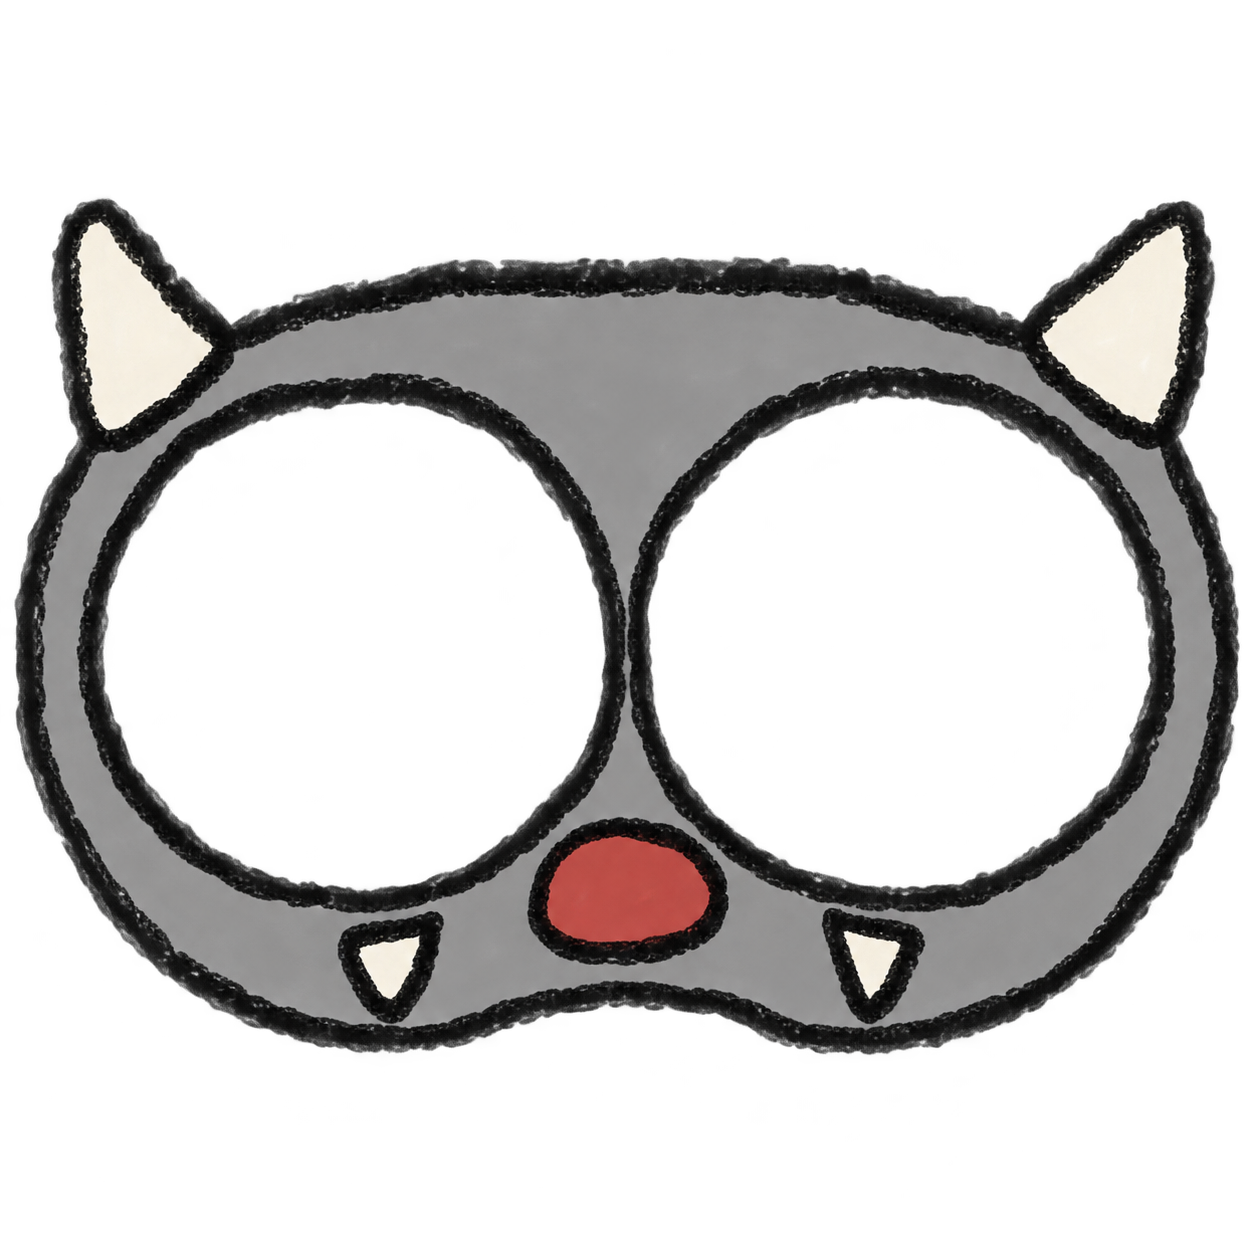
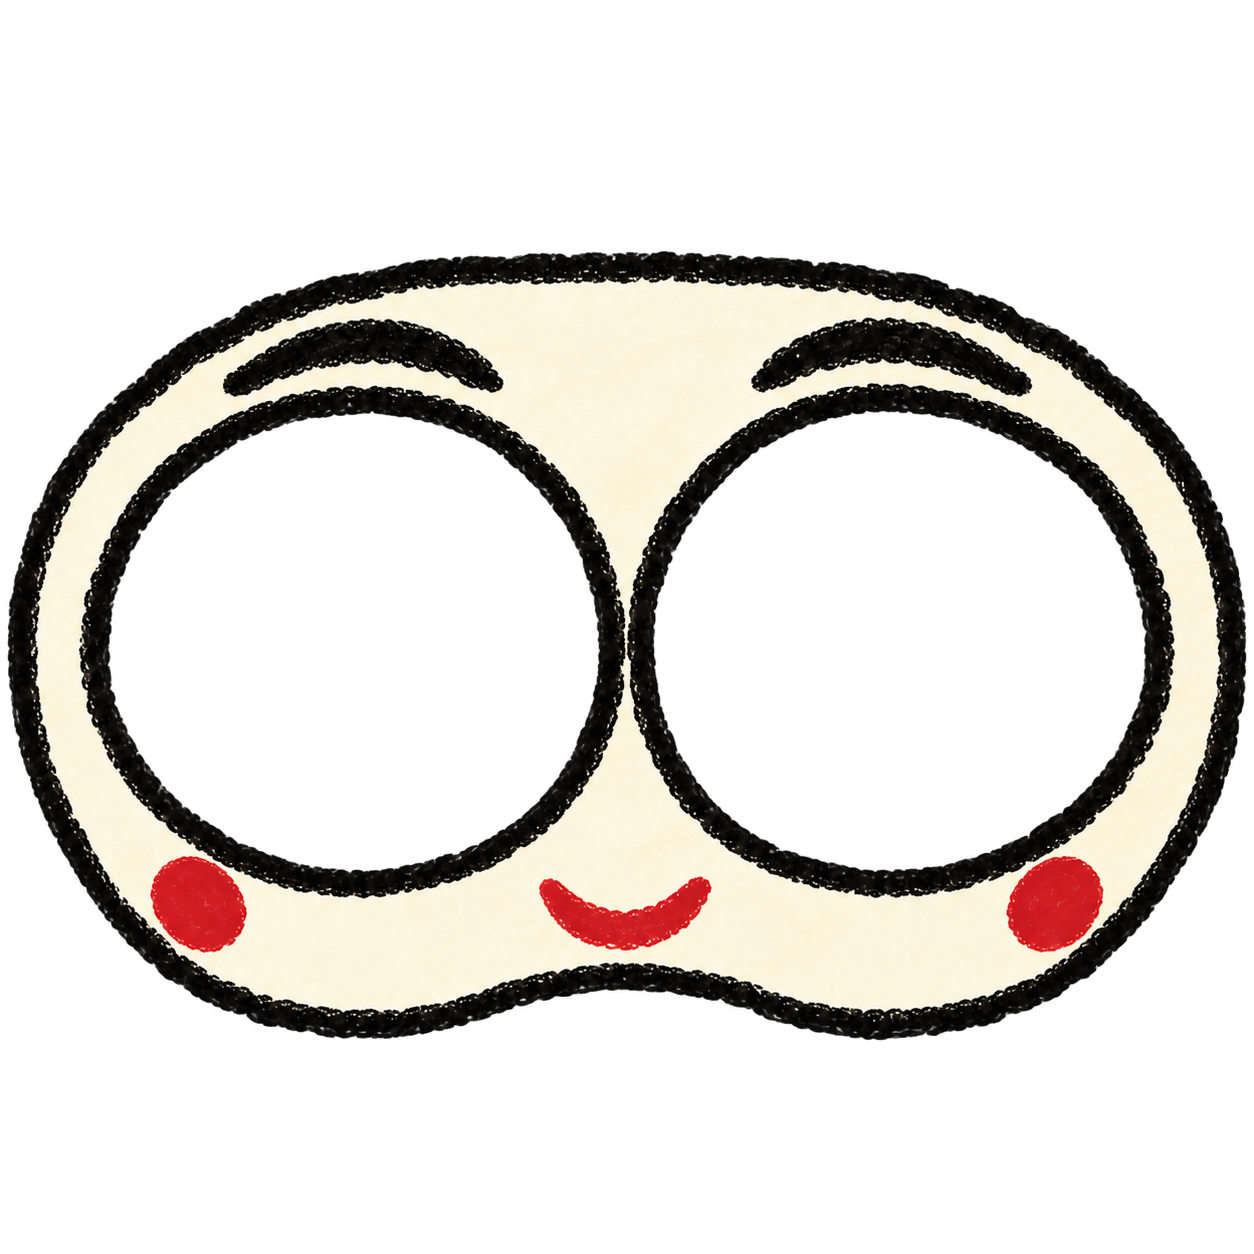
feat(skins): 야차탈을 각시탈 원화와 문구로 교체

Changed region(s): [[0.0, 0.1555, 0.9952, 0.8397]]

diff --git a/Assets/Scripts/Core/InkSkinTranslations.cs b/Assets/Scripts/Core/InkSkinTranslations.cs
@@ -146,7 +146,7 @@ namespace MukJump.Core
             InkSkinId.PeachFlower => ("봄이 급히 두고 간 물건.", "Spring left this behind in a hurry.", "春があわてて置いていったもの。"),
             InkSkinId.FoxMask => ("속인 건 아무도 없고, 본인만 신났다.", "Fooled nobody. Had a wonderful time.", "誰もだませず、自分だけ大喜び。"),
             InkSkinId.CraneCrest => ("높이 날던 학도 빗질은 서툴렀다.", "A fine flier. A terrible hairdresser.", "高く飛ぶ鶴も、髪を整えるのは苦手。"),
-            InkSkinId.YakshaMask => ("무서운 얼굴은 동네 아이가 그렸다.", "A village child drew the scary face.", "怖い顔は、近所の子が描いた。"),
+            InkSkinId.YakshaMask => ("탈은 웃고 있지만 주먹은 웃지 않는다.", "The mask smiles. The fists do not.", "仮面は笑うが、拳は笑わない。"),
             InkSkinId.TurtleShell => ("느린 장인이 끝내 완성한 투구.", "A very slow craftsman finally finished it.", "のんびり屋の職人が、ついに仕上げた。"),
             InkSkinId.MoonCrown => ("달에서 빌렸다. 반납일은 모른다.", "Borrowed from the moon. No due date.", "月から借りた。返す日は知らない。"),
             InkSkinId.BrushMaster => ("장인은 붓을 찾고, 붓은 여기 있다.", "The master is looking for these brushes.", "職人は筆を探している。筆はここにある。"),

diff --git a/Assets/Scripts/Core/InkSkinCatalog.cs b/Assets/Scripts/Core/InkSkinCatalog.cs
@@ -42,7 +42,7 @@ namespace MukJump.Core
             new(InkSkinId.PeachFlower,"복사꽃","Peach Blossom","桃の花","skin_peach_flower_v1",SkinTier.Easy,SkinMetric.Runs,5),
             new(InkSkinId.FoxMask,"여우탈","Fox Mask","狐の面","skin_fox_mask_v1",SkinTier.Medium,SkinMetric.Best,250),
             new(InkSkinId.CraneCrest,"학의 볏","Crane Crest","鶴の冠","skin_crane_crest_v1",SkinTier.Medium,SkinMetric.Distance,5000),
-            new(InkSkinId.YakshaMask,"야차탈","Yaksha Mask","夜叉の面","skin_yaksha_mask_v1",SkinTier.Medium,SkinMetric.Best,500),
+            new(InkSkinId.YakshaMask,"각시탈","Bridal Mask","花嫁の面","skin_yaksha_mask_v1",SkinTier.Medium,SkinMetric.Best,500),
             new(InkSkinId.TurtleShell,"거북 투구","Turtle Helm","亀のかぶと","skin_turtle_shell_v1",SkinTier.Medium,SkinMetric.Clones,3),
             // 은퇴 ID 20은 예전 저장을 읽기 위한 자리만 유지한다. 새 의상에 재사용하지 않는다.
             new(InkSkinId.StormScarf,"질풍 두건","Gale Scarf","疾風の頭巾","",SkinTier.Medium,SkinMetric.Survival,120),

diff --git a/docs/design/skin-rework-2026-09-14.md b/docs/design/skin-rework-2026-09-14.md
@@ -28,7 +28,7 @@
 
 - [x] 17 구름 장화: 기존 맵 발판에 착지하면 점프 아이템 효과. 그린 발판 제외, 같은 착지 중 중복 발동 방지.
 - [x] 18 접힌 차원: 이름·해금 조건 변경. 기존 보유 기록 보존.
-- [ ] 19 야차탈: 30초마다 적 충돌 시 적 제거. 동양풍 타격 이펙트·효과음 포함.
+- [x] 19 기존 야차탈을 각시탈로 교체: 30초마다 적 충돌 시 적 제거. 동양풍 타격 이펙트·효과음 포함.
 - [x] 20 천사 날개: 원래 먹 형태를 유지하는 빛의 날개·부활 능력.
 - [ ] 21 거미탈: 적·청색 거미 영웅 오마주 원화. 30초마다 벽으로 거미줄을 발사하고 자동 상승.
 
@@ -39,6 +39,8 @@
 - [ ] 24 중복 공개·계정 전환·저장 실패 및 이번 변경 영향만 검증. 위 24개 항목을 다시 대조.
 
 ## 진행 메모
+
+- 19 최종 원화 확인: 현재 야차탈을 각시탈로 바꾸는 뜻으로 해석한다고 사용자에게 알린 뒤 흰 탈·연지·웃는 입의 단순 원화로 교체했다. ID 18과 기존 보유·해금 조건은 유지, 3언어 이름·오마주 문구 변경. `MaskStrike` 최종 11개 통과, 실제 `YakshaMask.png` 화면에서 원래 먹의 눈·몸 유지와 능력 패널 확인. 증거 `output/qa/skin-rework-20260914/mask-final-tests.json`. 아래의 최초 이름 응답 대기 메모는 이 해석으로 이어서 진행한 과거 상태다.
 
 - 21 능력 검증 완료: `SpiderWeb` 7개 통과. 기존 상시 벽 접착은 성장 기능에만 남기고, 의상은 30초마다 실제 벽을 향해 줄을 발사한 뒤 최대 18m 물리 속도로 상승한다. 일시정지/백그라운드 정지, 분신/다른 상승 제외, 타 아이템 점프가 시작되면 줄 해제, 광고 재충전 없음. 실제 화면 벽을 타고 10m 이상 상승한 Play Mode 검사와 `SpiderWeb-climb.png` 확인. 최초 Unity 컴포넌트 null 처리 오류 수정 후 통과. 증거 `output/qa/skin-rework-20260914/spider-ability-tests.json`. **적·청색 새 원화는 배경 투명화 생성 실패로 미적용, 21 완료 표시는 보류.**
 

diff --git a/docs/design/skin-rework-art-2026-09-14.md b/docs/design/skin-rework-art-2026-09-14.md
@@ -60,6 +60,11 @@ Change this pig-ear accessory into a single PIG SNOUT accessory only, no ears. A
 Replace these two monkey ears with ONE CURLY MONKEY TAIL accessory. Only the tail, not an animal, not ears, no face or body. Simple orange-brown crayon fill and thick rough dark charcoal outline, exactly the same naive children's doodle style as reference. Tail begins with a thick rounded root on the LEFT at approx x18% y65%, then sweeps right in a relaxed shallow U and curls upward into an open inward spiral near the RIGHT at x75% y45%. Uniformly tubular long flexible tail with tapered rounded tip, no excessive double coil. This is a 2D side-attachment worn on the lower right hip of a tiny black inkblob, recognizable as a monkey's curly tail. Art comfortably centered, width75%canvas height55%canvas with transparent margins; single still accessory on genuine transparent RGBA background, no shadow, no checkerboard, no text, no additional objects. Simple and charming, not 3D.
 # 퇴마 타격 추가 원화
 
+## 각시탈
+
+- 기존 ID 18/원화 경로 `Assets/Resources/MukJump/Skins/skin_yaksha_mask_v1.png`를 유지하여 보유 기록을 보존한다.
+- 기존 야차 원화를 그림체·눈 위치 참조로 생성. 체크무늬 배경의 첫 출력 `exec-dc08d57f-26aa-4d68-8dcd-a3f8e5d6af6a.png`는 미사용. 이미지 도구로 배경만 재생성한 최종 `/Users/seungyeoning/.codex/generated_images/01a02807-53b4-7300-82fd-74057eea1a57/exec-ef378e03-2fb9-424d-81fe-26051da97ff3.png`를 그대로 적용. 실제 알파와 화면 착용 검사 완료.
+
 ## 천사 날개
 
 - 적용: `Assets/Art/Character/Animations/angel_wings_sheet.png`. 원본 `/Users/seungyeoning/.codex/generated_images/01a02807-53b4-7300-82fd-74057eea1a57/exec-ac94ffbb-f815-4080-80fd-0958f4f23648.png`.
